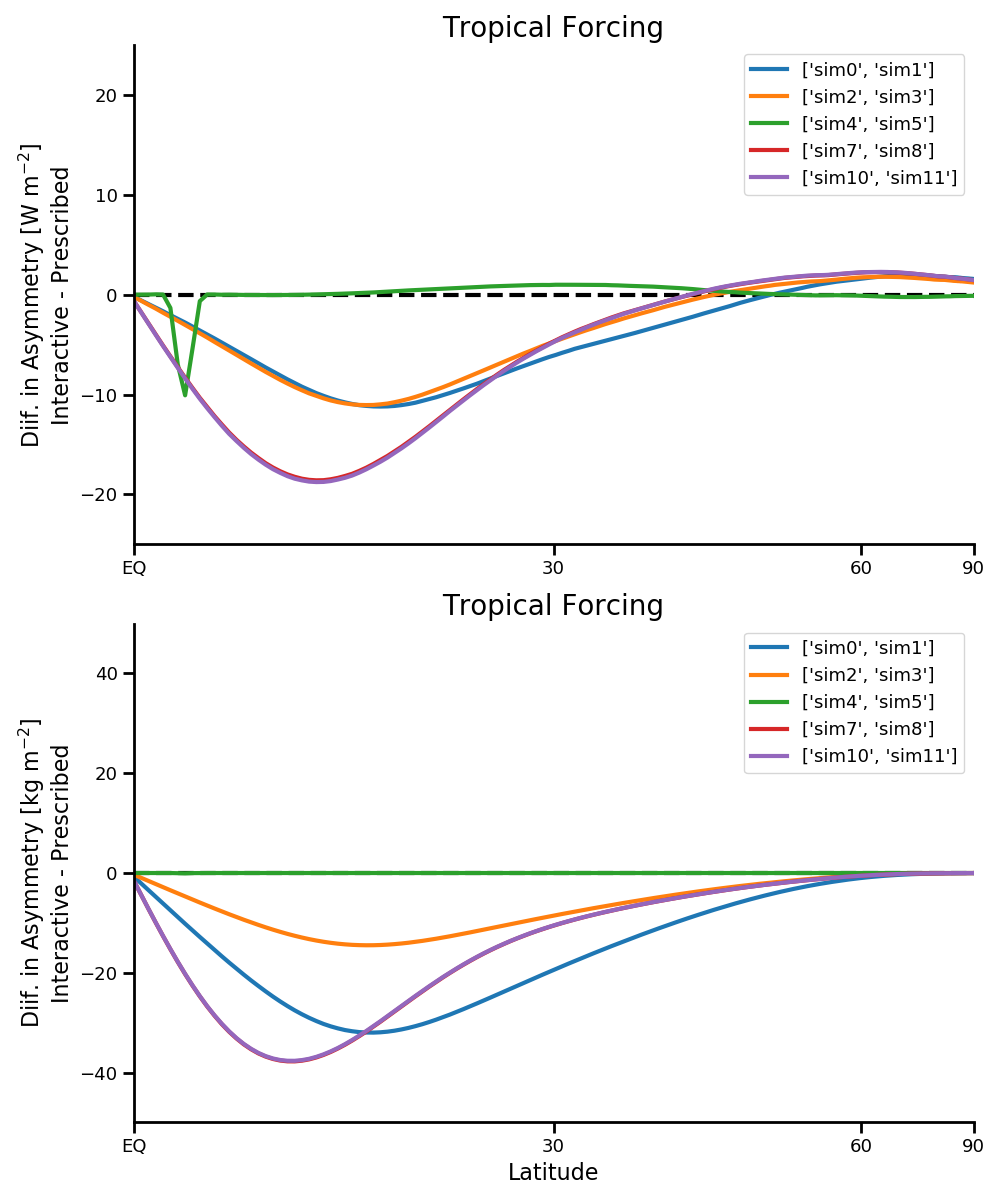
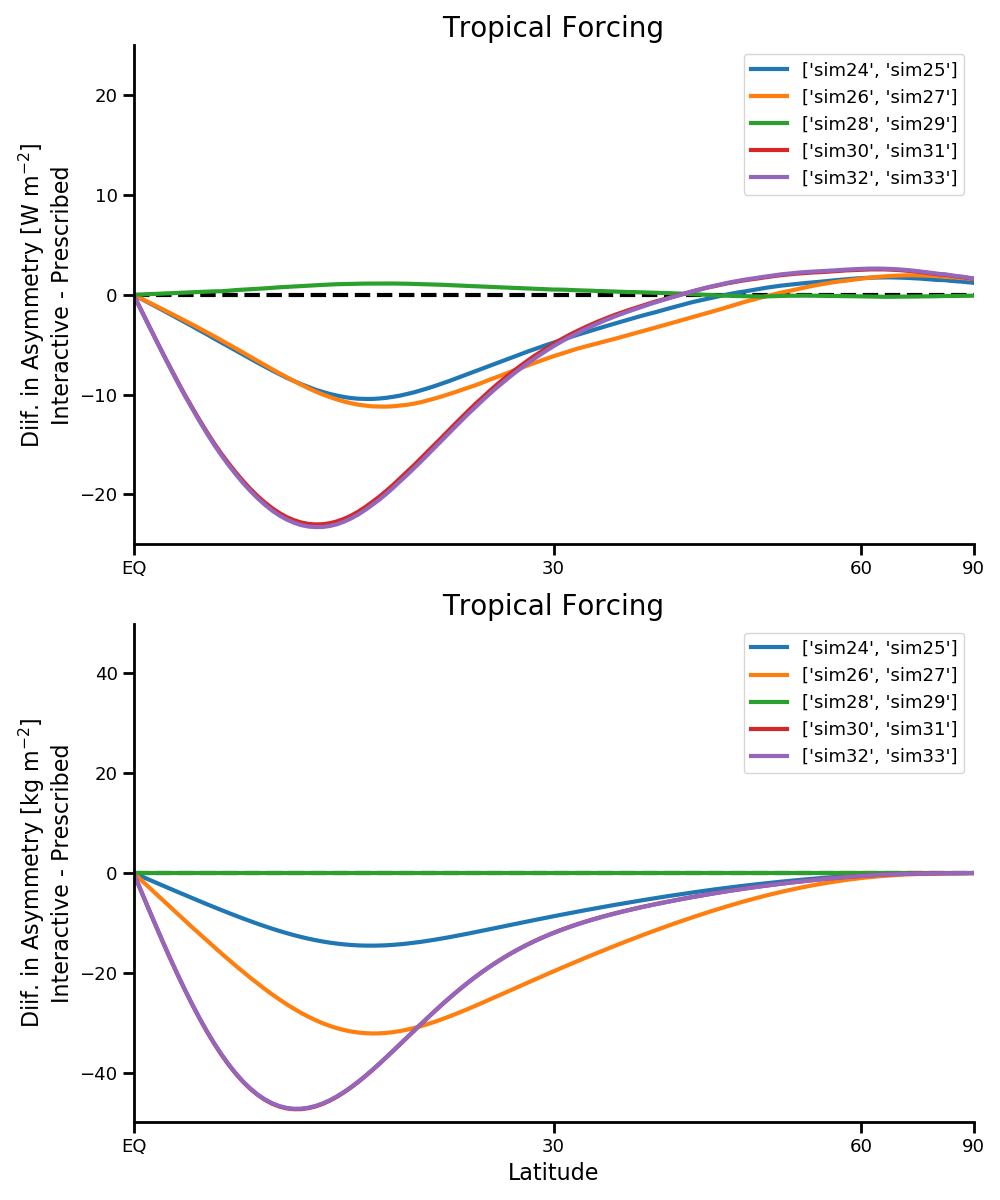
done

diff --git a/plot_asymmetry.py b/plot_asymmetry.py
@@ -17,9 +17,9 @@ rc('legend', fontsize=13)
 def asym(A):
     ''' returns pointwise asymmetry in A assuming A is a 1D array '''
     L = A.shape[0]
-    return A[L//2:] - np.flip(A[:L//2], axis=0)
+    return A[L//2:] - np.flip(A[:L//2 + L%2], axis=0)
 
-lats = np.linspace(0, 90, 180)
+lats = np.linspace(0, 90, 181)
 
 f = plt.figure(figsize=(10,12))
 
@@ -42,20 +42,20 @@ ax2.set_ylim([-50, 50])
 
 ax2.plot([0, 1], [0, 0], 'k--')
 
-sim_dir_pairs = [ ['sim0','sim1'],
-            ['sim2','sim3'],
-            ['sim4','sim5'],
-            ['sim7','sim8'],
-            ['sim10','sim11']
-            ]
+sim_dir_pairs = [ ['sim24','sim25'],
+                  ['sim26','sim27'],
+                  ['sim28','sim29'],
+                  ['sim30','sim31'],
+                  ['sim32','sim33']
+                  ]
 
 pressures = np.load('data/moist_adiabat_data.npz')['pressures']
 for sim_dir_pair in sim_dir_pairs:
     # Load data
-    L_no_wvf  = np.load('../EBM_sims/{}/L_array.npz'.format(sim_dir_pair[0]))['arr_0']
-    q_no_wvf  = np.load('../EBM_sims/{}/q_array.npz'.format(sim_dir_pair[0]))['arr_0']
-    L_wvf     = np.load('../EBM_sims/{}/L_array.npz'.format(sim_dir_pair[1]))['arr_0']
-    q_wvf     = np.load('../EBM_sims/{}/q_array.npz'.format(sim_dir_pair[1]))['arr_0']
+    L_wvf     = np.load('../EBM_sims/{}/L_array.npz'.format(sim_dir_pair[0]))['arr_0']
+    q_wvf     = np.load('../EBM_sims/{}/q_array.npz'.format(sim_dir_pair[0]))['arr_0']
+    L_no_wvf  = np.load('../EBM_sims/{}/L_array.npz'.format(sim_dir_pair[1]))['arr_0']
+    q_no_wvf  = np.load('../EBM_sims/{}/q_array.npz'.format(sim_dir_pair[1]))['arr_0']
     
     # Use equilibrated data
     L_wvf = L_wvf[-1, :]
